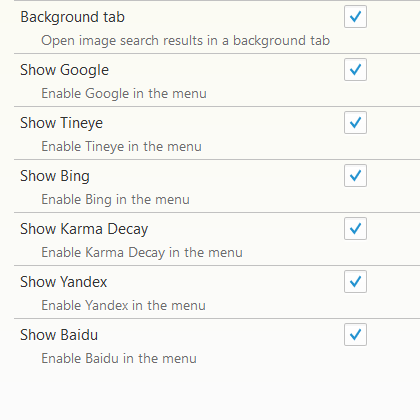
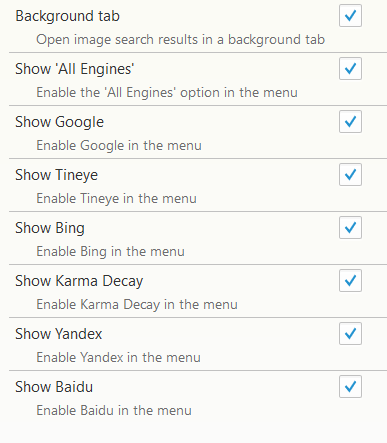
Update readme

diff --git a/README.md b/README.md
@@ -6,14 +6,15 @@
 
 ![Screenshot](images/screenshot-1.png)
 
-With the addon enabled, when right clicking on an image you have the ```Search image with...``` option, in which you can choose among the enabled search engines.
+With the addon enabled, right click on an image and select the search engine you want to use under the ```Search image with...``` menu option.
 
 # Options
 
 ![Screenshot](images/screenshot-3.png)
 
-Under the addon options, you can select the focus of the results tab(background or foreground), and enable or disable the following search engines:
+Select the focus of the result tab or tabs, and enable or disable any of the following menu options:
 
+* All Engines (Searches with all the selected search engines)
 * Google
 * TinEye
 * Bing
